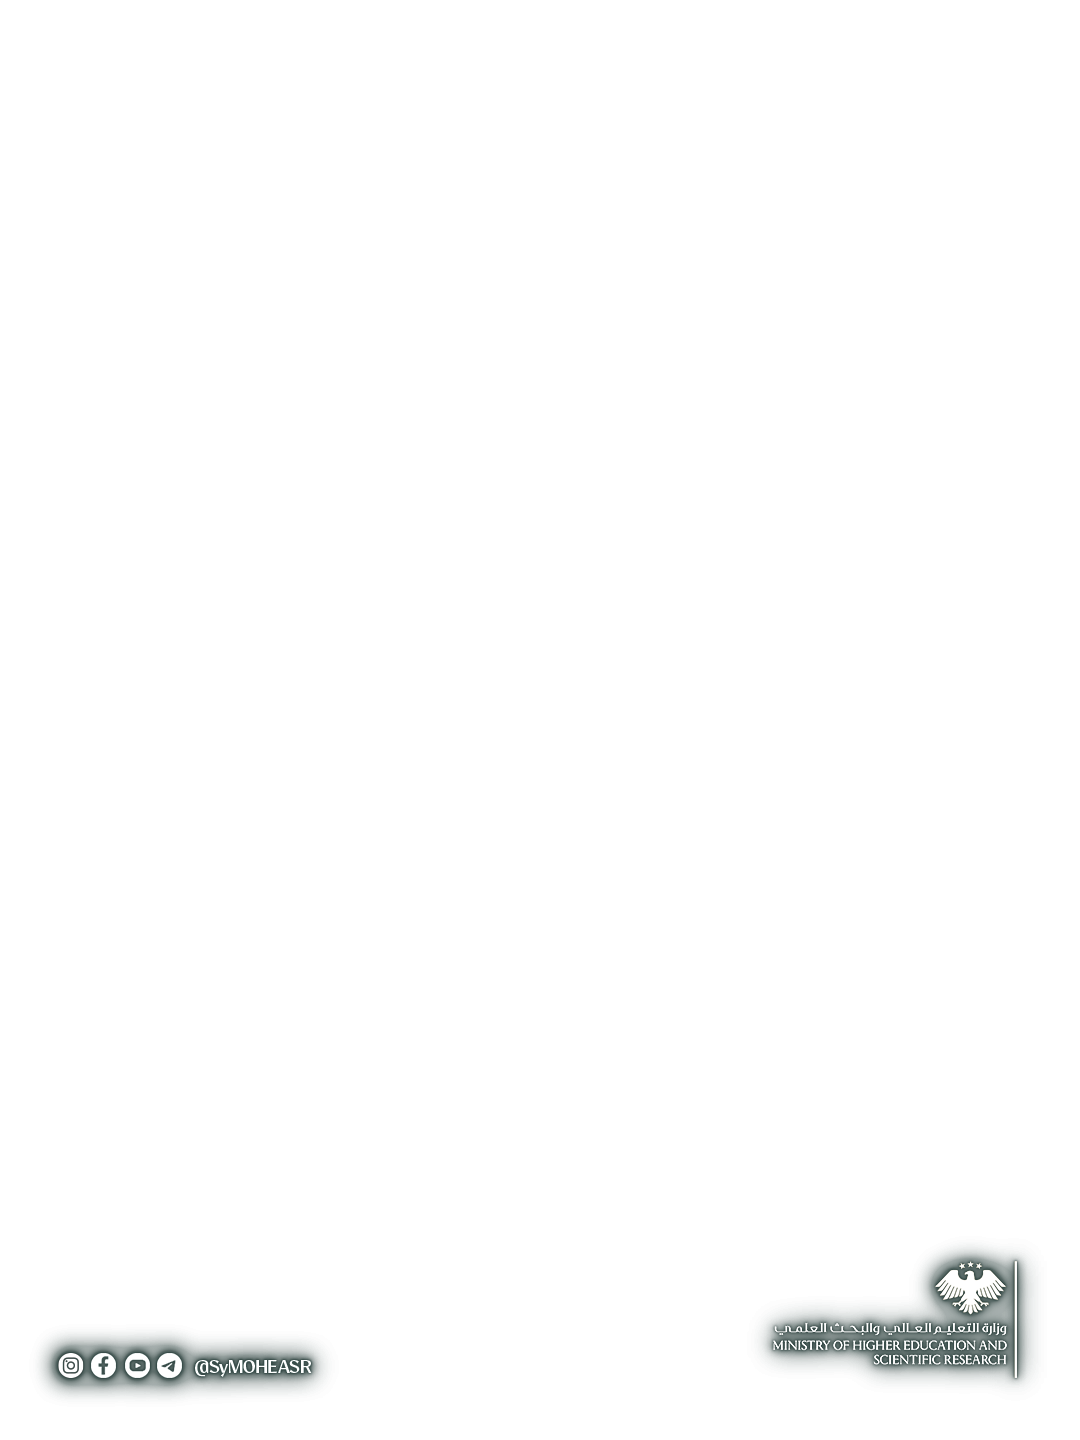
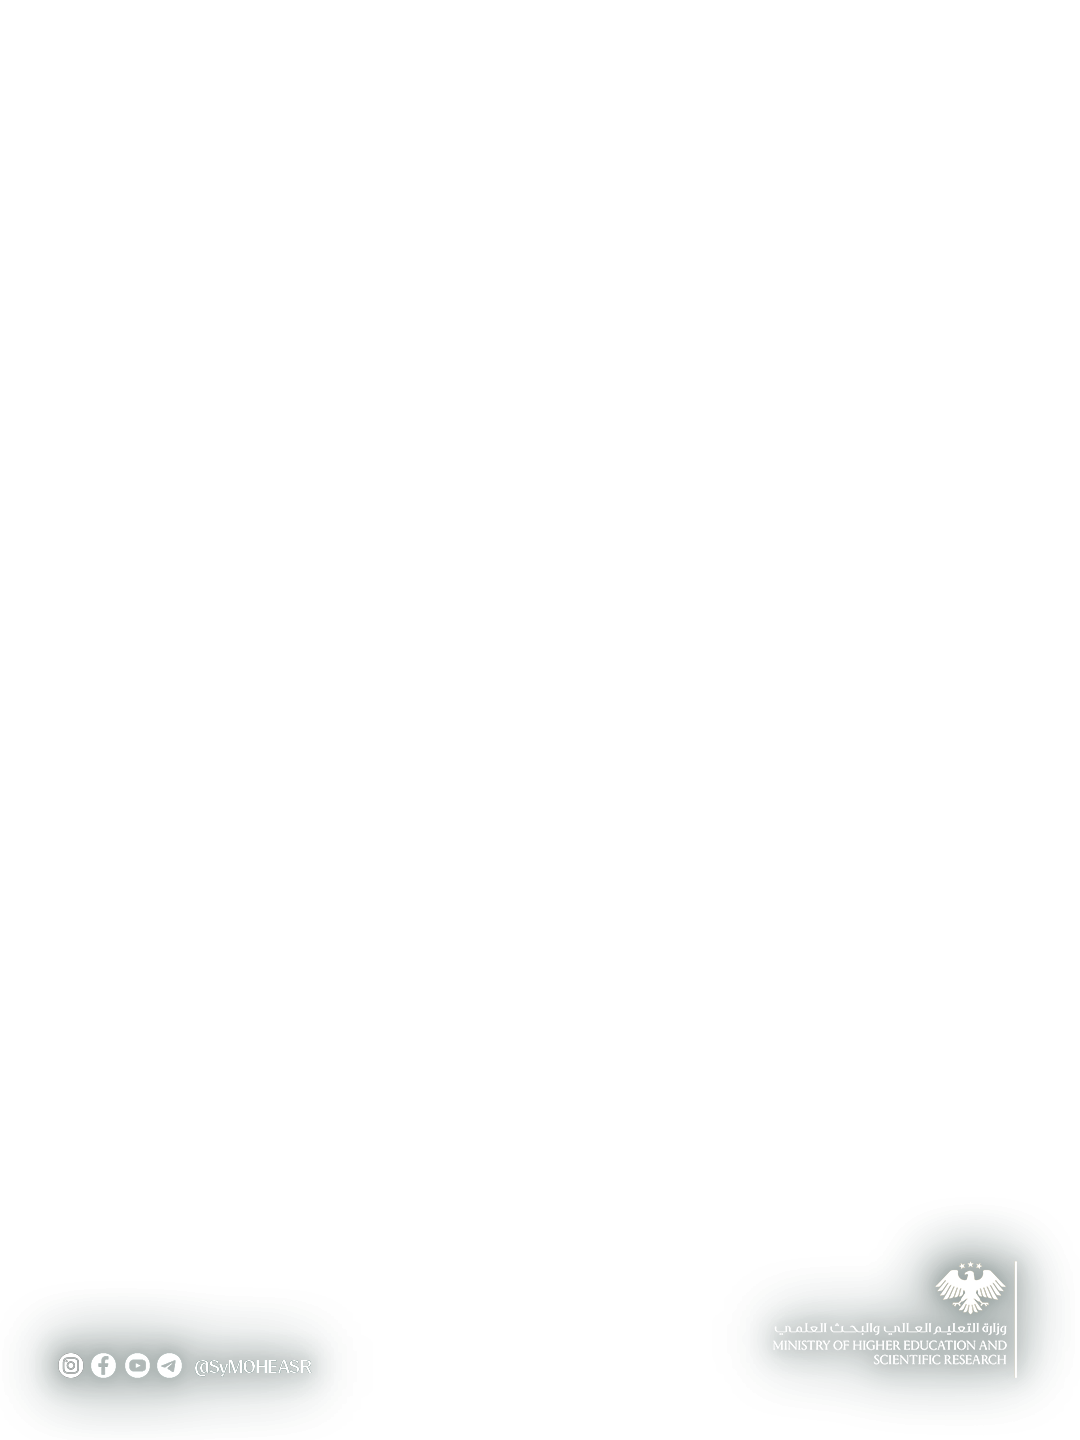
قوالب الصور: هالة منتشرة وناعمة حول اللوغو والمعرّفات بدل الظل
تمويه أوسع (30/14/6px) بمنحنى شفافية ناعم وبدون الطبقة الضيقة الملاصقة للأحرف، ليبقى النص الأبيض مقروءاً على الصور الفاتحة دون أن يبدو كظل. لا تعديل في الكود.

Changed region(s): [[0.7028, 0.8438, 0.9472, 0.9688], [0.0306, 0.9062, 0.3056, 1.0]]

diff --git a/CLAUDE.md b/CLAUDE.md
@@ -43,7 +43,7 @@
 - **توجيه تلغرام (آخر قرار 2026-10-26، يلغي ما قبله):** قسم الإنتاج (`chatId`) يستلم **كل شيء كصور (`sendPhoto`)**: الغلاف (1080×1920 / 1920×1080) + الصور بالقالب (1080×1440 / 1500×1000). المجموعة الثانية (`thumbChatId`) تستلم **الصور فقط بدون الغلاف، بدون قالب، كملفات (`sendDocument`)** بنفس القياسات (1080×1440 / 1500×1000). لا خانات Check للإرسال. «الصورة المصغرة» في كلام المستخدم كانت تعني الغلاف بعنوانه.
 - **المعاينة والتنزيل:** بطاقات الصور تُعاين بالقالب (`FORMATS`)، والغلاف بقياسه الوحيد `COVER_FORMATS` (طولي 1080×1920). `renderRegular(..., clean=true)` / `renderOutput(out, true)` = الصورة بدون قالب (للمجموعة الثانية فقط).
 - **تحريك صورة الغلاف حر (2026-10-28):** `coverCrop` = `newCoverCrop()` (`free: true`): `zoom=1` = **fit** (الصورة كاملة داخل الإطار، الافتراضي) والتكبير حتى `COVER_ZOOM_MAX` (5) للوصول إلى fill وأكثر؛ السحب بلا قيد حواف (فقط منتصف الإطار يبقى فوق الصورة)؛ الفراغ يُملأ بخلفية ضبابية من نفس الصورة (`drawPhoto`). الصور العادية بقيت fill مقيّد (`newCrop()`).
-- **قوالب الصور (قرار 2026-11-05، يلغي ما قبله):** `templates/landscape.png` و`templates/portrait.png` فيهما **اللوغو ومعرّفات التواصل (أيقونات + `@SyMOHEASR`) فقط**، بلا أي تدرّج أو نقش، ومعهما **ظل أخضر داكن ناعم حول العناصر نفسها فقط** (3 طبقات تمويه: 12 و4.5 و1.4px) ليبقى النص الأبيض مقروءاً على الصور الفاتحة. أُعيد بناؤهما من PSD في `#/` بإخفاء كل الطبقات عدا طبقة اللوغو ومجموعة `Group 5`، ثم إضافة الظل. الأفقي: اللوغو أعلى اليمين والمعرّفات أسفل اليسار؛ الطولي: اللوغو أسفل اليمين والمعرّفات أسفل اليسار. `portrait-916.png` لم يُحدَّث (غير مستعمل).
+- **قوالب الصور (قرار 2026-11-05، يلغي ما قبله):** `templates/landscape.png` و`templates/portrait.png` فيهما **اللوغو ومعرّفات التواصل (أيقونات + `@SyMOHEASR`) فقط**، بلا أي تدرّج أو نقش، ومعهما **هالة خضراء داكنة منتشرة وناعمة حول العناصر نفسها فقط** (3 طبقات تمويه واسعة: 30 و14 و6px، بمنحنى شفافية ناعم `cap*(1-exp(-k*v))` بلا حدود حادة، وبلا طبقة ضيقة ملاصقة للأحرف حتى لا تبدو كظل) ليبقى النص الأبيض مقروءاً على الصور الفاتحة. أُعيد بناؤهما من PSD في `#/` بإخفاء كل الطبقات عدا طبقة اللوغو ومجموعة `Group 5`، ثم إضافة الظل. الأفقي: اللوغو أعلى اليمين والمعرّفات أسفل اليسار؛ الطولي: اللوغو أسفل اليمين والمعرّفات أسفل اليسار. `portrait-916.png` لم يُحدَّث (غير مستعمل).
 - **تحرير موضع النص:** خانة Check تحت معاينة الغلاف. مطفأة: السحب يحرّك الصورة. مفعّلة: السحب يحرّك كتلة العنوان بكل زخارفها (صندوق البطاقة، وسم الذهب، الخطوط…) والصورة تثبت، ويظهر إطار منقّط للمعاينة فقط. الإزاحة تُحفظ **لكل (اتجاه + شكل)** في `state.textPos` وتبقى في الذاكرة فقط (تُمسح بإعادة تحميل الصفحة)، وتُطبَّق أيضاً على التنزيل وعلى النسخة المصغرة. تُقيَّد لتبقى الكتلة على بعد 24px من حواف الغلاف. زر «إعادة موضع النص» يصفّرها.
 - **كيف يعمل التحريك تقنياً:** كل شكل في `app.js` يرسم الخلفيات الكاملة ثم يرسم كتلة النص داخل `runStack()` (أو `withTextShift()` للبطاقة)، وهي التي تُطبّق الإزاحة. أي شكل جديد يجب أن يرسم نصه عبرها ويستدعي `trackBounds()` لزخارفه حتى يُحسب الإطار والتقييد صحيحاً.
 

diff --git a/docs/PROGRESS.md b/docs/PROGRESS.md
@@ -98,3 +98,9 @@
 - التحقق: عرض القالبين على ثلاث خلفيات (فاتحة، متوسطة، داكنة) وتخفيف الظل بعد أول تجربة لأنه كان ثقيلاً على الفاتح.
 - ملاحظات: الفرع مبني من `main` وليس من PR #8 (لم يُدمج بعد). قد يبقى القالب القديم في كاش المتصفح حتى ~10 دقائق (Ctrl+F5). `portrait-916.png` غير مستعمل ولم يُحدَّث.
 - **تمّ الدمج والنشر (2026-11-05):** PR #9 دُمج في `main` (`65ad07a`)، وبنى Pages، وتحققت أن `templates/landscape.png` (66726 بايت) و`templates/portrait.png` (58051 بايت) المنشورين مطابقان للمحلّيين. PR #8 ما زال مفتوحاً.
+
+### 2026-11-05 — الظل: أخف ثم أكثر انتشاراً (النسخة المعتمدة)
+- الطلب: «خليه أخف وورجيني» ثم «خلي انتشاره أكبر بحيث ما كتير يبين إنه ظل» ثم اعتمد المستخدم النسخة المنتشرة.
+- التنفيذ: أخف نسخة (سقوف 0.20/0.27/0.22) ثم المنتشرة: تمويه 30 و14 و6px مع سقوف 0.22 و0.18 و0.10 وكسب 9 و5 و2 بمنحنى `cap*(1-exp(-gain*v/255))`. أول محاولة منتشرة بحدّ أعلى حاد (`min`) أعطت حلقات متدرّجة مرئية فاستُبدلت بالمنحنى الناعم. اللون (3,28,24) كما هو.
+- الملفات: `templates/landscape.png` `templates/portrait.png` (أصول فقط) + `CLAUDE.md` + هذا الملف.
+- التحقق: مقارنة على خلفيات فاتحة ومتوسطة وداكنة للأفقي، ومعاينة منفصلة للطولي.
